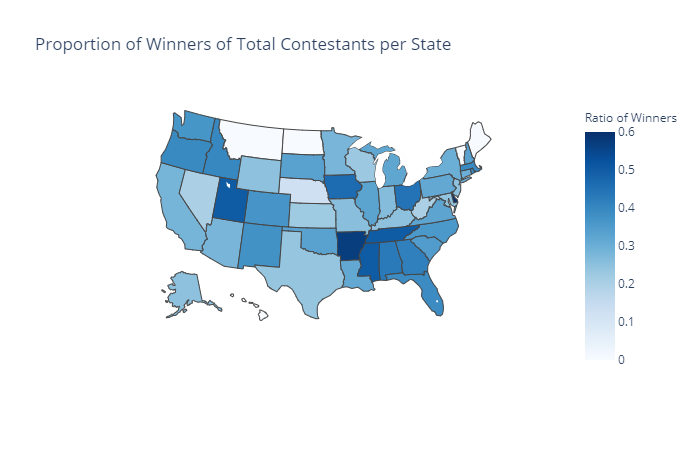
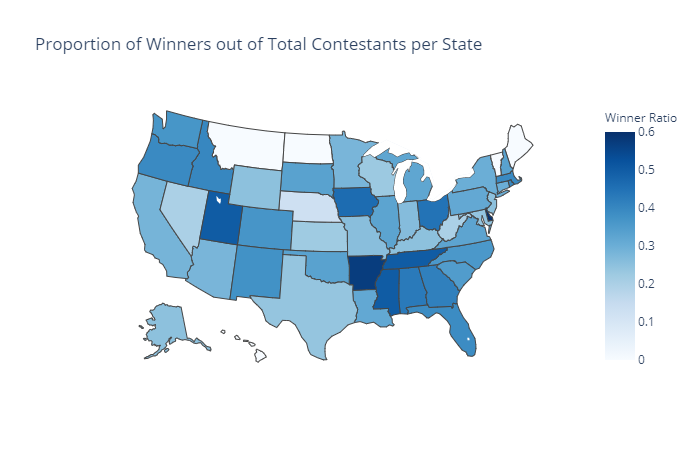
update jeopardy blog 2

diff --git a/_posts/2020-04-19-Jeopardy-Contestants-Case-Study-Pt-2.md b/_posts/2020-04-19-Jeopardy-Contestants-Case-Study-Pt-2.md
@@ -13,7 +13,7 @@ In Part 1 of this workshop series, Python's BeautifulSoup and Tweepy libraries w
 
 Now that we have a complete dataset of contestants and their associated details, we can start our investigation! 
 
-### Part 2: Contestant Analytics and Predicting Winnings
+### Part 2: Contestant Analytics and Predicting Winners
 
 #### Demographics & Characteristics 
 
@@ -24,17 +24,17 @@ Contestants for Jeopardy are selected by taking an online quiz and meeting a cer
 <div style="text-align: center"><img src="/assets/jeopardy_images/contestant_count.png"
 height="90%" width="90%" /></div>
 
-Contestants hometown state locations tend to correlate with population demographics, with many indiviudals coming from California (382), New York (316), and Illinois (217). 
+Contestants hometown state locations tend to correlate with population demographics, with many indiviudals coming from California (268), New York (200), and Illinois (125). 
 
-51% of contestants are unique to their hometown, demostrating that individuals are not just selected from the large cities that can seem to dominate the selection process. 
+71% of contestants are unique to their hometown, demostrating that individuals are not just selected from the large cities that can seem to dominate the selection process. 
 
 #### Occupations 
 
-A wide range of occupations are represented by candidates. Within our range of contestants, there are approximately 1,317 distinct careers held by individual contestants. 
+A wide range of occupations are represented in our sample of Jeopardy contestants. Within our range of contestants, there are approximately 1,317 distinct careers held by individual contestants. 
 
-Doing the grunt work, I went ahead and grouped each of these occupations into a 'job category'. For instance, a '10th grade english teacher' and 'violin teacher' are labeled as just 'teacher', and occupations such as 'public health doctor' and 'emergency physician' are grouped as simply 'physician'. Doing so presents us with a count of 33 distinct occupation categories.
+Doing the grunt work, I went ahead and grouped each of these occupations into a 'job category'. For instance, a '10th grade english teacher' and 'violin teacher' are categorized as just 'teacher', and occupations such as 'public health doctor' and 'emergency physician' are grouped as simply 'physician'. Doing so presents us with a count of 33 distinct job categories.
 
-So which career paths seem to appear more on Jeopardy? 
+So which career paths appear more often on Jeopardy? 
 
 <table>
 <thead>
@@ -45,46 +45,48 @@ So which career paths seem to appear more on Jeopardy?
 </thead>
 <tbody>
 <tr class="odd">
-<td>Unemployed</td>
-<td>169</td>
+<td style="text-align:center">Unemployed</td>
+<td style="text-align:center">169</td>
 </tr>
 <tr class="even">
-<td>Teacher</td>
-<td>180</td>
+<td style="text-align:center">Teacher</td>
+<td style="text-align:center">180</td>
 </tr>
 <tr class="odd">
-<td>Student</td>
-<td>145</td>
+<td style="text-align:center">Student</td>
+<td style="text-align:center">145</td>
 </tr>
 <tr class="even">
-<td>Manager</td>
-<td>138</td>
+<td style="text-align:center">Manager</td>
+<td style="text-align:center">138</td>
 </tr>
 <tr class="odd">
-<td>Lawyer</td>
-<td>135</td>
+<td style="text-align:center">Lawyer</td>
+<td style="text-align:center">135</td>
 </tr>
 <tr class="even">
-<td>Writer / Author</td>
-<td>133</td>
+<td style="text-align:center">Writer / Author</td>
+<td style="text-align:center">133</td>
 </tr>
 <tr class="odd">
-<td>Graduate Student</td>
-<td>98</td>
+<td style="text-align:center">Graduate Student</td>
+<td style="text-align:center">98</td>
 </tr>
 <tr class="even">
-<td>Artist / Designer</td>
-<td>62</td>
+<td style="text-align:center">Artist / Designer</td>
+<td style="text-align:center">62</td>
 </tr>
 <tr class="odd">
-<td>...</td>
-<td>...</td>
+<td style="text-align:center">...</td>
+<td style="text-align:center">...</td>
 </tr>
 </tbody>
 </table>
 
-We see that the most common jobs tend to follow three themes: free time, tournment categories, and writing/reading heavy roles. Individuals who are unemployed likely have free time on their hands to study miscellaneous topics and build up their trivia skills, where as those with full time jobs may not. Jeopardy's most common tournments consist of 'Teen', 'College' and 'Teachers' categories that fuel the high number of these roles we see in the data. What is of interest is those job categories outside of the standard tournaments, where we still often see those pursuing reading/ research heavy roles (Lawyers/ Graduate Students) and those with creative work that might often lead to exposure of different fields of work (Writers/ Artists). 
-Given this, let's also review the least common job categories: 
+
+We see that the most common jobs tend to follow three themes: free time, tournment categories, and writing/reading heavy roles. Individuals who are unemployed likely have free time on their hands to study miscellaneous topics and build up their trivia skills, where as those with full time jobs may not have such a luxury. Jeopardy's most common tournaments consist of 'Teen', 'College' and 'Teacher' categories that fuel the high number of these roles we see in the data. What is of interest is those job categories outside of the standard tournaments, where we  often see those with reading/ research heavy roles (Lawyers/ Graduate Students) and those with creative work that may lead to a wide range of educational and different fields of work (Writers/ Artists). 
+
+We can also review the least common job categories: 
 
 <table>
 <thead>
@@ -95,41 +97,57 @@ Given this, let's also review the least common job categories:
 </thead>
 <tbody>
 <tr class="even">
-<td>...</td>
-<td>...</td>
+<td style="text-align:center">...</td>
+<td style="text-align:center">...</td>
 </tr>
 <tr class="odd">
-<td>Salesperson</td>
-<td>18</td>
+<td style="text-align:center">Salesperson</td>
+<td style="text-align:center">18</td>
 </tr>
 <tr class="even">
-<td>Coordinator</td>
-<td>17</td>
+<td style="text-align:center">Coordinator</td>
+<td style="text-align:center">17</td>
 </tr>
 <tr class="odd">
-<td>Musician</td>
-<td>17</td>
+<td style="text-align:center">Musician</td>
+<td style="text-align:center">17</td>
 </tr>
 <tr class="even">
-<td>Military / Clergy</td>
-<td>16</td>
+<td style="text-align:center">Military / Clergy</td>
+<td style="text-align:center">16</td>
 </tr>
 <tr class="odd">
-<td>Laborer</td>
-<td>13</td>
+<td style="text-align:center">Laborer</td>
+<td style="text-align:center">13</td>
 </tr>
 <tr class="even">
-<td> Marketing </td>
-<td> 11 </td>
+<td style="text-align:center"> Marketing </td>
+<td style="text-align:center"> 11 </td>
 </tr>
 </tbody>
 </table>
 
-Nothing too special about these job categories from first glance. 'Musician' seems somewhat suprising given the number of music related subject matter seen in Jeopardy questions. Of significant note is the general lack of jobs that tend to involve physical labor requirements (Military/ Laborer). Jeopardy has always tended to be the most pronounced "white collar" focused game show, and the data seems to support that. 
+From first glance, nothing seems too special about these job categories. 'Musician' seems somewhat suprising given the number of music related subject matter seen in Jeopardy questions. Of significant note is the general lack of jobs that tend to involve physical labor requirements (Military/ Laborer). Jeopardy has always tended to be one of the most pronounced "white collar" focused game shows on television, and the data seems to support that argument. 
 
-But of a given job category, which tends to produce more *winners*?  
+So of a given job category, which tends to produce the most *winners*? [4]
 
-** review winners proportion of each category 
+<div style="text-align: center"><img src="/assets/jeopardy_images/winner_ratio_map.png"
+height="90%" width="90%" /></div>
+
+Several of our underrepresented job categories seem to feature a higher than average proportion of winners! 
+
+
+
+
+
+
+
+#### Gender & Personal Anecdotes 
+
+
+
+
+
 
 
 
@@ -140,48 +158,32 @@ But of a given job category, which tends to produce more *winners*?
 
 Contestants typically play an average of 1.6 games. Roughly 72% of all conetestants will only ever play a single game, with 98% of contestants playing 5 games or less. Any player who gets above this 5 game threshold is considered to be a bit of an outlier, having carved out a significant amount of cash winnings for oneself.
 
-The median end score needed to win and move on in any given game of a Jeopardy tournament is $18,800. To come in second place still requires that you win an average hefty sum of $10,399. 
+The median end score needed to win and move on in any given game of a Jeopardy tournament is $18,800. To come in second place still requires that you win a hefty average sum of $10,399. 
 
-Due to these statisitcs, it is typical that a strong player with a solid strategy and wit can keep dominating the board and win multiple games in a row. For example Julia Collins won 20 consecutive victories between April 21 and May 30 of 2014. 
+Due to these statisitcs, it is typically seen that a strong player with a solid strategy and wit can keep dominating the board and win multiple games in a row. For example Julia Collins won 20 consecutive victories between April 21 and May 30 of 2014. 
 
-While reviewing winners, its worth evaluting the proportion of winners produced from each state. Thinking back to the original number of contestants per state, we can take the proportion of winners out of the overall count of contestants from their home state to produce the following distribution: 
+While reviewing winners, it's worth evaluting the proportion of winners produced from each state. Thinking back to the original number of contestants per state, we can take the proportion of winners out of the overall count of contestants from their home state to produce the following heatmap: 
 
 <div style="text-align: center"><img src="/assets/jeopardy_images/winner_ratio_map.png"
 height="90%" width="90%" /></div>
 
-blah blah blah 
+Unsurprisingly, states with few overall contestants tend to have a higher proportion of winners from their home state, such as Arkansas and Deleware. The South in general seems to produce a high number of winners proportionally, where as states such as California and New York get washed out in this ranking. 
 
 
+#### Putting it all together: can you *make* a winner?   
+
+But is it possible to *predict* who will win based on just a contestant's demographic data (e.g. hometown, gender, job category, and personal anecode)?  This is a challenging quesiton that requires defining. Are we prediciting if a candidate will win, or prediciting their total amount of winnings they earn before being set into their final rank[2]?
+
+For the purpose of the data available, we will address the former question. We can create a unique database of contestants and a flag on if they have won *at least one* game of Jeopardy. This helps address outliers like the infamous James Holzhauer who has played in 30+ games, and boil him down to a single snapshot. 
 
 
-#### Putting it all together: can we make a winner?   
+Evaluating this criteria in the form of a logistic regression model, we find next to no correlation between the variables (R-Squared 0.05). In fact, when attempting to predict results with several different models, we find next to everyone in the test dataset being labeled as a non-winner! (Which produces close to 68 % accuracy, a misleading statistic.)
 
-But is it possible to *predict* who will win based on just the contestant data available?  This is a challenging quesiton the requires defining. Are we prediciting if a candidate will win, or simply the total amount of winnings they earn before being set into their final rank[2]?
+#### Final thoughts
 
-For the purpose of the data available, we will address the former question. We can create a unique database of contestants and a flag on if they have won *at least once*. This helps address outliers like the infamous James H ___ who has played in 30+ games. 
+So what does this mean? Has all this work been for nothing? Quite the contrary. Sometimes models *aren't accurate*! That's just life! Wether its a lack of detailed data, or a challenging problem to solve, sometimes we aren't able to find any interesting results. 
 
-
-
-
--- Logistic Regression 
-
-
-
-blah blah 
-
-62% accuracy wow that's good right ? WRONG 
-
-the model defaulted, as is an known problem , to everyone being labeled as a non-winner. Due to the the cut of the data wit there being X winners / total (aka %), inverses.
-
-So what does this mean? If anything 
-
-https://towardsdatascience.com/my-absolute-go-to-for-sentiment-analysis-textblob-3ac3a11d524
-
--- Final thoughts
-
-
-
-Sometimes models *don't work*! That's just life! Wether its a lack of detailed data, 
+Or are we? Instead, I would argue our investigation has shown that *anyone* can make it onto Jeopardy and be a successful contestant. Regardless of your hometown, job, gender, or your funny quip during the show, what really likely matters is the strategy and effort contestants take to study and prepare for these challenges. As in the famous words of my favorite disney movie " Anyone can cook" translate to "Anyone can win Jeopardy!". 
 
 
 
@@ -194,6 +196,6 @@ Sometimes models *don't work*! That's just life! Wether its a lack of detailed d
 
 [3] Individuals listed as "retired", "originally", or by a unique 'age' are listed as "unemployed". 
 
-
+[4] For the purposes of the winner table I removed "Student" / "Teacher" / "unemployed" given that these individuals have their own tournaments. Those indicated as "Professor" are NOT featured in Teacher's tournaments and therefore do not need to be excluded. 
 
 
